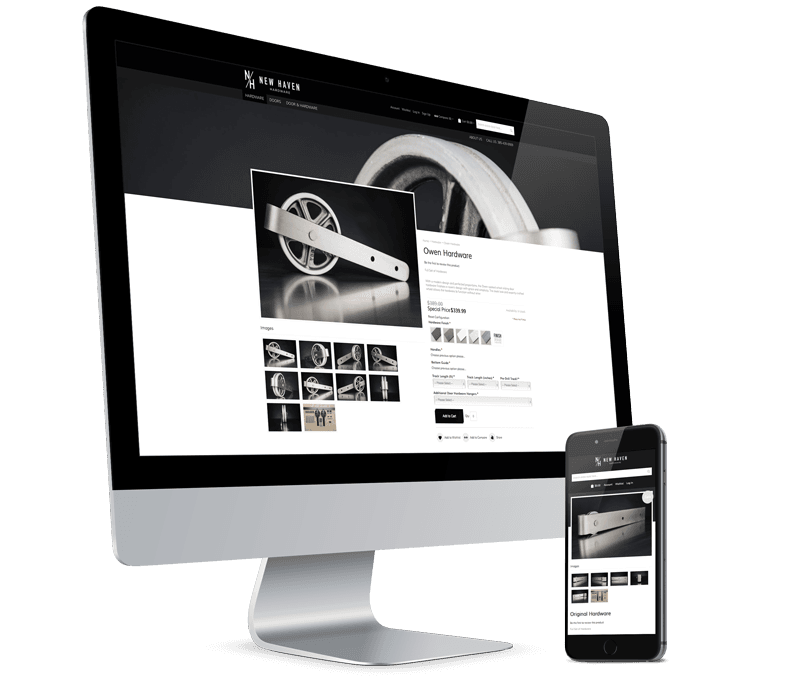
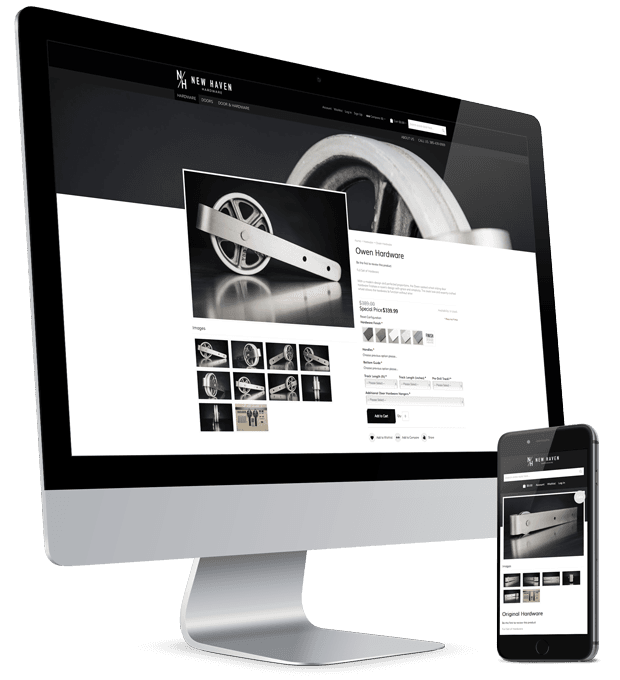
Image fixes

diff --git a/index.html b/index.html
@@ -80,7 +80,7 @@ title: {{ site.name }}
       </div>
 
       <div class="slide image on-right">
-        <img src="{{ site.baseurl }}/assets/images/macbook.png" width="480" height="491" class="hero" />
+        <img src="{{ site.baseurl }}/assets/images/macbook.png" width="480" height="440" class="hero" />
       </div>
 
     </div>
@@ -91,7 +91,7 @@ title: {{ site.name }}
   <div class="oval bottom grey900" style="position: absolute; top: 0;">
   </div>
   <div column class="align-items-center">
-    <img src="{{ site.baseurl }}/assets/images/writer.jpg" width="480" height="408" class="hero" />
+    <img src="{{ site.baseurl }}/assets/images/writer.jpg" width="480" height="526" class="hero" />
   </div>
   <div class="oval top" style="position: absolute; bottom: 0;">
   </div>
